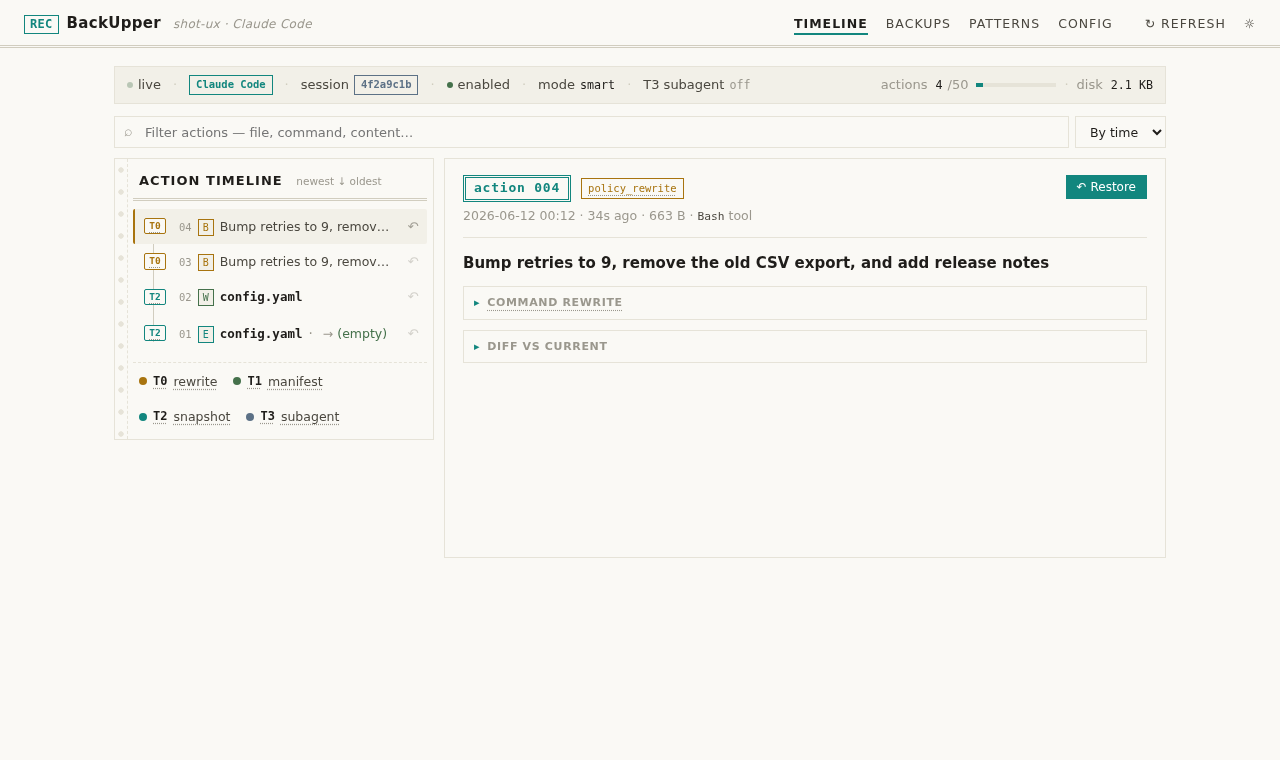
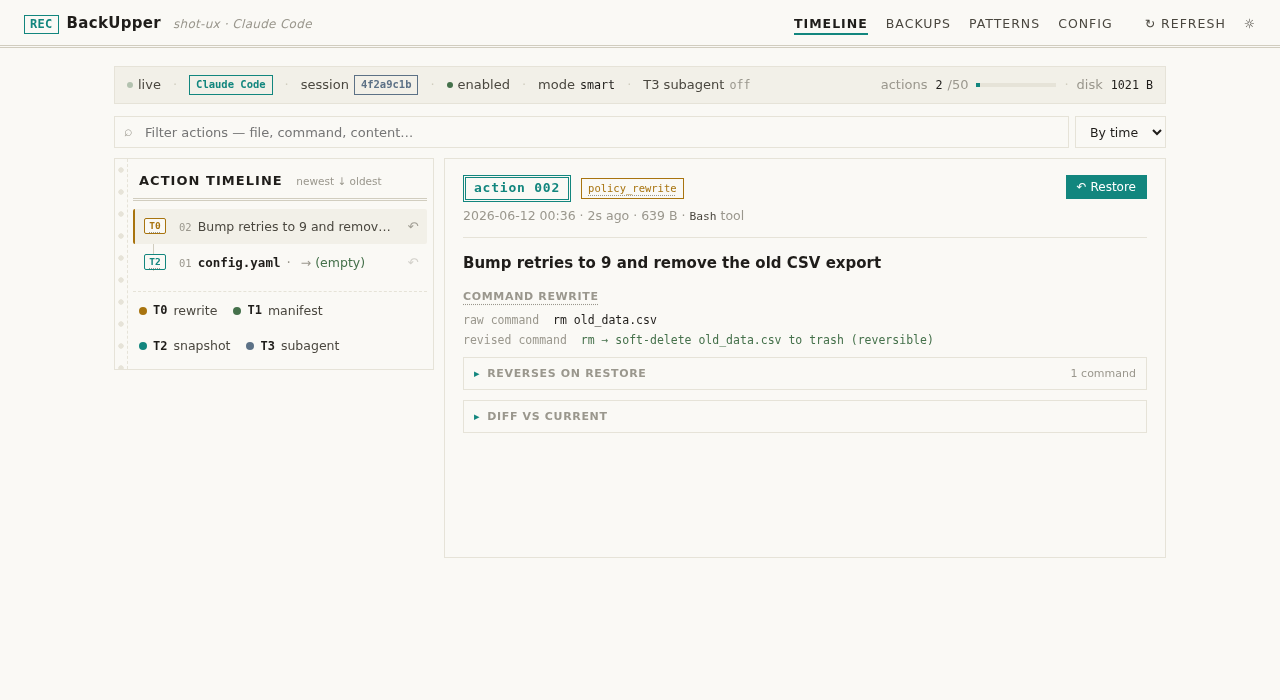
feat(dashboard): fewer folds — key facts inline, only verbose detail folds
Command rewrite (raw/revised), subagent summary, workspace files and
the file-history strip render inline again; folds are reserved for
the long stuff: recovery command lists, diff vs current, remote-state
JSON. Also removes the B/W/E tool-letter chips from timeline rows.

diff --git a/src/dashboard/static/index.html b/src/dashboard/static/index.html
@@ -374,6 +374,8 @@
   .detail-acc .acc-body { padding: 4px 10px 12px; }
   .detail-acc summary .hint { font-weight: 400; text-transform: none; letter-spacing: 0; color: var(--muted); margin-left: auto; font-size: 11px; }
 
+  .detail-section h4 .sec-hint { font-weight: 400; text-transform: none; letter-spacing: 0; color: var(--muted); margin-left: 6px; }
+
   /* Clickable tier legend + description box */
   .tl-legend .item { cursor: pointer; }
   .tl-legend .item:hover b { color: var(--accent); }
@@ -903,7 +905,6 @@ function renderTimelineRowHtml(a) {
     content = `<span class="tl-detail">${escapeHtml(c.text)}</span>`;
   }
   const tier = tierOf(a);
-  const toolLetter = ((a.toolName || "?")[0] || "?").toUpperCase();
 
   // The spine node IS the tier label (T0/T1/T2/T3) — no separate dot,
   // no branch. Colour reinforces the tier but the text carries it.
@@ -911,7 +912,6 @@ function renderTimelineRowHtml(a) {
     <div class="tl-node ${tier.cls} term" title="${escapeHtml(TIER_HELP[tier.tag] || tier.name)}">${tier.tag}</div>
     <div class="tl-content">
       <span class="tl-idx" title="action ${String(a.seq).padStart(3, "0")}">${String(a.seq).padStart(2, "0")}</span>
-      <span class="tl-tool ${toolLetter}">${toolLetter}</span>
       ${content}
     </div>
     <button class="tl-restore" data-seq="${a.seq}" title="Restore to this state">↶</button>
@@ -1063,10 +1063,11 @@ function renderDetail(seq) {
     ? `<div class="detail-instruction">${escapeHtml(a.instruction)}</div>`
     : "";
 
-  // Collapsible sections: only the instruction shows by default; each
-  // block expands on demand (design: key items first, details opt-in).
-  const acc = (id, title, body, hint = "") => body
-    ? `<details class="detail-acc" id="acc-${id}"><summary>${title}${hint ? `<span class="hint">${hint}</span>` : ""}</summary><div class="acc-body">${body}</div></details>`
+  // Layout: key info shows inline (command rewrite, files, subagent
+  // summary, history strip); only verbose detail folds (diff, command
+  // lists, remote-state JSON).
+  const sec = (title, body) => body
+    ? `<div class="detail-section"><h4>${title}</h4>${body}</div>`
     : "";
 
   let subagentBody = "";
@@ -1075,19 +1076,17 @@ function renderDetail(seq) {
     if (a.subagent.externalShadowFileCount > 0) meta.push(`${a.subagent.externalShadowFileCount} files`);
     if (a.subagent.recoveryCommandCount > 0)    meta.push(`${a.subagent.recoveryCommandCount} recovery cmds`);
     if (a.subagent.liveRestore)                 meta.push(`live-restore`);
-    subagentBody = `<div class="kv">${escapeHtml(a.subagent.description || "")}</div>
-      ${meta.length ? `<div class="kv" style="color:var(--muted);margin-top:4px">${meta.join(" · ")}</div>` : ""}`;
+    subagentBody = `<div class="kv" style="font-size:11.5px;font-weight:400">${escapeHtml(a.subagent.description || "")}</div>
+      ${meta.length ? `<div class="kv" style="color:var(--muted);margin-top:3px;font-size:11px">${meta.join(" · ")}</div>` : ""}`;
   }
 
-  let filesBody = "", filesHint = "";
+  let filesBody = "";
   if (a.files && a.files.length) {
     const shown = a.files.slice(0, 8);
     const extra = a.files.length - shown.length;
-    filesHint = `${a.files.length} file${a.files.length === 1 ? "" : "s"}`;
     filesBody = `<div class="file-list">${shown.map((f) =>
       `<span class="file-item"><code class="file-link" data-view-file="${escapeHtml(f)}" title="Click to view current file content">${escapeHtml(f)}</code><button class="file-restore" data-file-restore="${escapeHtml(f)}" title="Restore only this file from this action's snapshot">↶</button></span>`
-    ).join(", ")}${extra > 0 ? ` <span style="color:var(--muted)">+${extra} more</span>` : ""}</div>
-    ${a.stats ? `<div class="stat" style="margin-top:6px">${escapeHtml(a.stats)}</div>` : ""}`;
+    ).join(", ")}${extra > 0 ? ` <span style="color:var(--muted)">+${extra} more</span>` : ""}${a.stats ? ` <span class="stat" style="font-size:11px;margin-left:6px">${escapeHtml(a.stats)}</span>` : ""}</div>`;
   }
 
   const others = currentActions.filter((x) => x.seq !== a.seq).sort((x, y) => y.seq - x.seq);
@@ -1103,10 +1102,10 @@ function renderDetail(seq) {
 
   pane.innerHTML = headerHtml + instr
     + `<div id="detail-extra"></div>`
-    + acc("subagent", "Subagent capture", subagentBody)
-    + acc("files", "Workspace files", filesBody, filesHint)
-    + acc("diff", `<span id="diff-label">Diff vs current</span>`, diffBody)
-    + (historySection ? acc("history", "File history", historySection) : "");
+    + sec("Subagent capture", subagentBody)
+    + sec(`Workspace files${a.files && a.files.length ? ` <span class="sec-hint">${a.files.length}</span>` : ""}`, filesBody)
+    + `<details class="detail-acc" id="acc-diff"><summary><span id="diff-label">Diff vs current</span></summary><div class="acc-body">${diffBody}</div></details>`
+    + (historySection || "");
 
   $("detail-restore-btn").onclick = () => openRestoreModal(a.seq);
   for (const el of pane.querySelectorAll(".file-history .step")) {
@@ -1224,28 +1223,27 @@ async function loadDiff(seq) {
       diffEl.textContent = "(no diff available)";
       diffEl.style.color = "var(--muted)";
     }
-    // Extra sections render as collapsed accordions in #detail-extra
-    // (between the instruction and the standard sections).
+    // Key info renders inline in #detail-extra; only verbose command
+    // lists / JSON dumps fold.
     const accx = (title, body) =>
       `<details class="detail-acc"><summary>${title}</summary><div class="acc-body">${body}</div></details>`;
     let extraHtml = "";
-    // Tier-0 command rewrite: the raw destructive command and the
-    // reversible form it was revised to.
+    // Tier-0 command rewrite: raw + revised inline (the key facts of a
+    // T0 action), recovery commands folded.
     if (d.policyRewrite) {
       const pr = d.policyRewrite;
       // Strip a "Bash(...)" wrapper for readability.
       const origCmd = (pr.original || "").replace(/^\w+\((.*)\)$/s, "$1") || pr.original;
-      let rw = `<div class="kv" style="margin-bottom:3px;font-size:11.5px"><span style="color:var(--muted)">raw command&nbsp;</span> <span class="strike" style="text-decoration-color:var(--danger);color:var(--text)">${escapeHtml(origCmd)}</span></div>
-        <div class="kv" style="font-size:11.5px"><span style="color:var(--muted)">revised command&nbsp;</span> <span style="color:var(--success)">${escapeHtml(pr.description || "intercepted")}</span></div>`;
+      let rw = `<div class="kv" style="margin-bottom:3px;font-size:11.5px;font-weight:400"><span style="color:var(--muted)">raw command&nbsp;</span> <span class="strike" style="text-decoration-color:var(--danger);color:var(--text)">${escapeHtml(origCmd)}</span></div>
+        <div class="kv" style="font-size:11.5px;font-weight:400"><span style="color:var(--muted)">revised command&nbsp;</span> <span style="color:var(--success)">${escapeHtml(pr.description || "intercepted")}</span></div>`;
       if (pr.recovery && pr.recovery.length) {
-        rw += `<div class="kv" style="color:var(--muted);text-transform:uppercase;font-size:10px;letter-spacing:0.06em;margin-top:8px;margin-bottom:3px">Reverses on restore</div>
-          <ol style="margin:0;padding-left:20px;font-size:11.5px;color:var(--text-dim);line-height:1.5">${pr.recovery.map((c) => `<li>${escapeHtml(c)}</li>`).join("")}</ol>`;
+        rw += `<details class="detail-acc" style="margin-top:7px"><summary>Reverses on restore <span class="hint">${pr.recovery.length} command${pr.recovery.length === 1 ? "" : "s"}</span></summary><div class="acc-body"><ol style="margin:0;padding-left:20px;font-size:11px;color:var(--text-dim);line-height:1.5">${pr.recovery.map((c) => `<li>${escapeHtml(c)}</li>`).join("")}</ol></div></details>`;
       }
-      extraHtml += accx(`<span class="term"${helpAttr("policy_rewrite")}>Command rewrite</span>`, rw);
+      extraHtml += `<div class="detail-section"><h4><span class="term"${helpAttr("policy_rewrite")}>Command rewrite</span></h4>${rw}</div>`;
     }
     if (d.subagent && d.subagent.recovery && d.subagent.recovery.length) {
-      extraHtml += accx(`Recovery plan${d.subagent.liveRestore ? ` <span class="hint">live-restore</span>` : ""}`,
-        `<ol style="margin:0;padding-left:20px;font-size:12.5px;color:var(--text-dim);line-height:1.55">${d.subagent.recovery.map((c) => `<li>${escapeHtml(c)}</li>`).join("")}</ol>`);
+      extraHtml += accx(`Recovery plan <span class="hint">${d.subagent.recovery.length} command${d.subagent.recovery.length === 1 ? "" : "s"}${d.subagent.liveRestore ? " · live-restore" : ""}</span>`,
+        `<ol style="margin:0;padding-left:20px;font-size:11px;color:var(--text-dim);line-height:1.5">${d.subagent.recovery.map((c) => `<li>${escapeHtml(c)}</li>`).join("")}</ol>`);
     }
     if (d.remoteState) {
       extraHtml += accx("Captured remote state",
@@ -1288,7 +1286,7 @@ function renderFileHistory(a) {
     </span>`;
   }).join(`<span class="arrow">→</span>`);
 
-  return `<div class="file-history" style="margin-top:0;padding-top:0;border-top:none">
+  return `<div class="file-history">
     <div class="title">History of <code>${escapeHtml(primary)}</code></div>
     <div class="strip">${steps}</div>
   </div>`;
